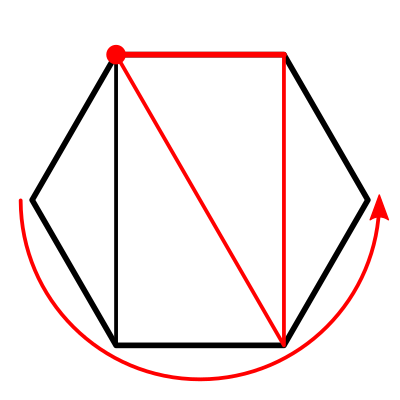
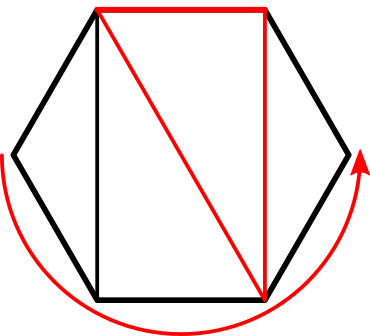
cat fix

Changed region(s): [[0.0, 0.0, 1.0, 1.0], [0.5946, 0.6548, 0.6243, 0.7143]]

diff --git a/math/catalan.md b/math/catalan.md
@@ -17,12 +17,11 @@ but why?
 
 lets consider the triangulation of the (n+2)-gon:
 
-we consider the top side and its left vertex as anchor
-
+we consider the top side as anchor.
 we now iterate over all other vertices
-![cat](../res/catalan2.png)
-
-uniqueness is given by the triangle that contains this edge
 and we can consider all possible polygon triangulations on both sides
 multiplied since independant
+![cat](../res/catalan2.png)
+
+uniqueness is given by the triangle that contains this top-edge
 
